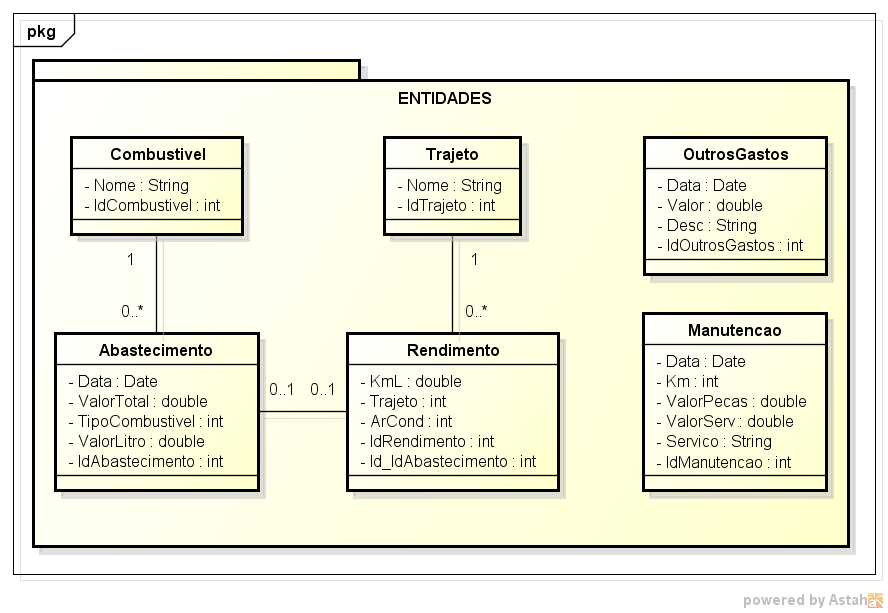
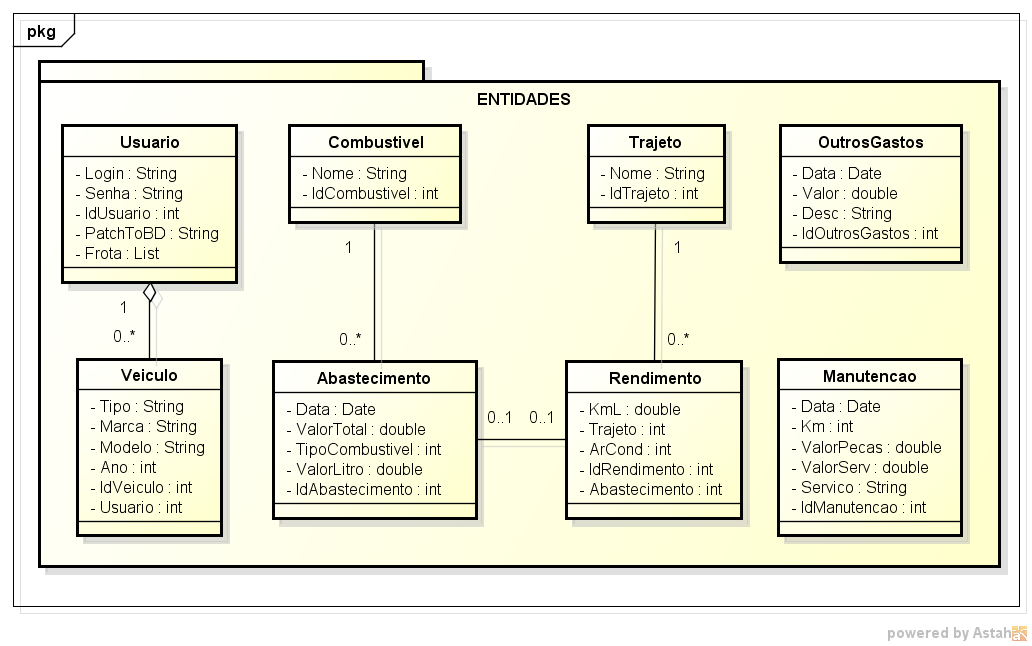
Alterações nas entidades

Changed region(s): [[0.0, 0.0, 1.0, 0.9918]]

diff --git a/JuliusReport/src/ENTIDADES/Veiculo.java b/JuliusReport/src/ENTIDADES/Veiculo.java
@@ -1,0 +1,105 @@
+/*
+ * Copyright (C) 2018 mgarcia.
+ *
+ * This library is free software; you can redistribute it and/or
+ * modify it under the terms of the GNU Lesser General Public
+ * License as published by the Free Software Foundation; either
+ * version 2.1 of the License, or (at your option) any later version.
+ *
+ * This library is distributed in the hope that it will be useful,
+ * but WITHOUT ANY WARRANTY; without even the implied warranty of
+ * MERCHANTABILITY or FITNESS FOR A PARTICULAR PURPOSE.  See the GNU
+ * Lesser General Public License for more details.
+ *
+ * You should have received a copy of the GNU Lesser General Public
+ * License along with this library; if not, write to the Free Software
+ * Foundation, Inc., 51 Franklin Street, Fifth Floor, Boston,
+ * MA 02110-1301  USA
+ */
+package ENTIDADES;
+
+/**
+ *
+ * @author mgarcia
+ */
+public class Veiculo {
+
+    private String Tipo;
+    private String Marca;
+    private String Modelo;
+    private int Ano;
+    private String Cor;
+    private String Placa;
+    private int Usuario;
+    private int IdVeiculo;
+
+    public void setTipo(String t) {
+        this.Tipo = t;
+    }
+
+    public String getTipo() {
+        return this.Tipo;
+    }
+
+    public void setMarca(String m) {
+        this.Marca = m;
+    }
+
+    public String getMarca() {
+        return this.Marca;
+    }
+
+    public void setModelo(String m) {
+        this.Modelo = m;
+    }
+
+    public String getModelo() {
+        return this.Modelo;
+    }
+
+    public void setAno(int a) {
+        this.Ano = a;
+    }
+
+    public int getAno() {
+        return this.Ano;
+    }
+
+    public void setCor(String c) {
+        this.Cor = c;
+    }
+
+    public String getCor() {
+        return this.Cor;
+    }
+
+    public void setPlaca(String p) {
+        this.Placa = p;
+    }
+
+    public String getPlaca() {
+        return this.Placa;
+    }
+
+    public void setUsuario(int u) {
+        this.Usuario = u;
+    }
+
+    public int getUsuario() {
+        return this.Usuario;
+    }
+
+    public void setIdVeiculo(int i) {
+        this.IdVeiculo = i;
+    }
+
+    public int getIdVeiculo() {
+        return this.IdVeiculo;
+    }
+    
+    @Override
+    public String toString() {
+        return this.getMarca() + " " + this.getModelo() + " " + this.getAno()
+                + this.getCor() + ", Placa " + this.getPlaca();
+    }
+}

diff --git a/JuliusReport/src/CONTROLE/DAO/UsuarioDAO.java b/JuliusReport/src/CONTROLE/DAO/UsuarioDAO.java
@@ -37,11 +37,12 @@ public class UsuarioDAO implements DAO {
     public void salvar(Object o) throws SQLException {
         if (o instanceof Usuario) {
             Usuario usuario = (Usuario) o;
-            String sql = "INSERT INTO Usuario VALUES (?,?)";
+            String sql = "INSERT INTO Usuario VALUES (?,?,?)";
             Connection con = new ConnectionFactory().getConnection();
             PreparedStatement ps = con.prepareStatement(sql);
             ps.setString(1, usuario.getLogin());
             ps.setString(2, usuario.getSenha());
+            ps.setString(3, usuario.getPatchToBD());
             ps.execute();
             System.out.println("Usuario registrado.");
 
@@ -72,6 +73,7 @@ public class UsuarioDAO implements DAO {
                 usuario.setIdUsuario(rs.getInt(1));
                 usuario.setlogin(rs.getString(2));
                 usuario.setSenha(rs.getString(3));
+                usuario.setPatchToBD(rs.getString(4));
                 
                 return usuario;
             }

diff --git a/JuliusReport/src/CONTROLE/DAO/AbastecimentoDAO.java b/JuliusReport/src/CONTROLE/DAO/AbastecimentoDAO.java
@@ -39,13 +39,14 @@ public class AbastecimentoDAO implements DAO {
             Abastecimento abastecimento = (Abastecimento) c;
             //formatador me ajudará a manipular as datas nos processos de I/O no DB
             SimpleDateFormat formatador = new SimpleDateFormat("dd/MM/yyyy");
-            String sql = "INSERT INTO Abastecimento VALUES(?,?,?,?)";
+            String sql = "INSERT INTO Abastecimento VALUES(?,?,?,?,?)";
                 Connection con = new ConnectionFactory().getConnection();
                 PreparedStatement ps = con.prepareStatement(sql);
                 ps.setString(1, formatador.format(abastecimento.getData())); //so proud to understand dat shit
                 ps.setDouble(2, abastecimento.getValorTotal());
                 ps.setInt(3, abastecimento.getTipoCombustivel());
                 ps.setDouble(4, abastecimento.getValorLitro());
+                ps.setString(5, abastecimento.getPosto());
                 ps.execute();
 
         } else {

diff --git a/JuliusReport/src/ENTIDADES/Usuario.java b/JuliusReport/src/ENTIDADES/Usuario.java
@@ -18,6 +18,9 @@
  */
 package ENTIDADES;
 
+import java.awt.List;
+import java.util.ArrayList;
+
 /**
  *
  * @author mgarcia
@@ -25,7 +28,14 @@ package ENTIDADES;
 public class Usuario {
     private String Login;
     private String Senha;
+    private String PatchToBD;
+    private ArrayList<Veiculo> Frota;
     private int IdUsuario;
+    
+    public Usuario() {
+        this.Frota = new ArrayList<Veiculo>();
+    }
+    
     
     public void setlogin(String n) {
         this.Login = n;
@@ -33,6 +43,10 @@ public class Usuario {
     
     public void setSenha(String s) {
         this.Senha = s;
+    }
+    
+    public void setPatchToBD(String p) {
+        this.PatchToBD = p;
     }
     
     public void setIdUsuario(int id) {
@@ -50,5 +64,9 @@ public class Usuario {
     
     public String getSenha() {
         return this.Senha;
+    }
+    
+    public String getPatchToBD() {
+        return this.PatchToBD;
     }
 }

diff --git a/JuliusReport/src/ENTIDADES/Abastecimento.java b/JuliusReport/src/ENTIDADES/Abastecimento.java
@@ -33,6 +33,7 @@ public class Abastecimento {
     Double ValorTotal;
     int TipoCombustivel; //referencia Combustivel.IdCombustivel
     Double ValorLitro;
+    String Posto;
     int IdAbastecimento;
     
     //recebe uma string dd/MM/yyyy como data e joga exceções pra cima
@@ -55,6 +56,10 @@ public class Abastecimento {
     
     public void setValorLitro(Double v) {
         this.ValorLitro = v;
+    }
+    
+    public void setPosto(String p) {
+        this.Posto = p;
     }
     
     public void setIdAbastecimento(int i) {
@@ -81,6 +86,10 @@ public class Abastecimento {
     
     public Double getValorLitro() {
         return this.ValorLitro;
+    }
+    
+    public String getPosto() {
+        return this.Posto;
     }
     
     public int getIdAbastecimento() {
